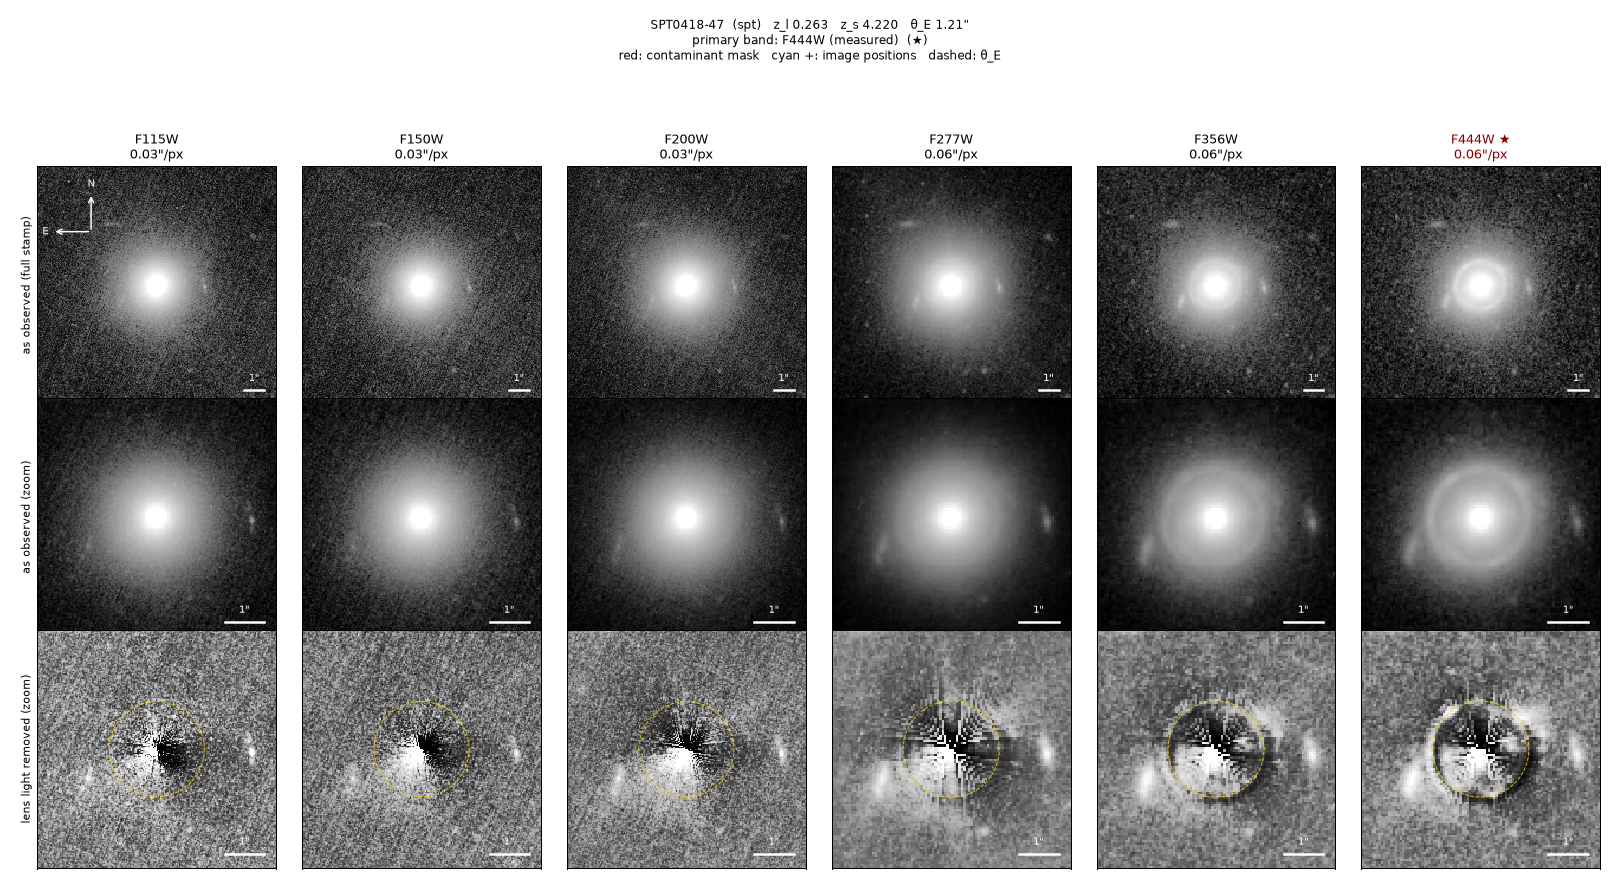
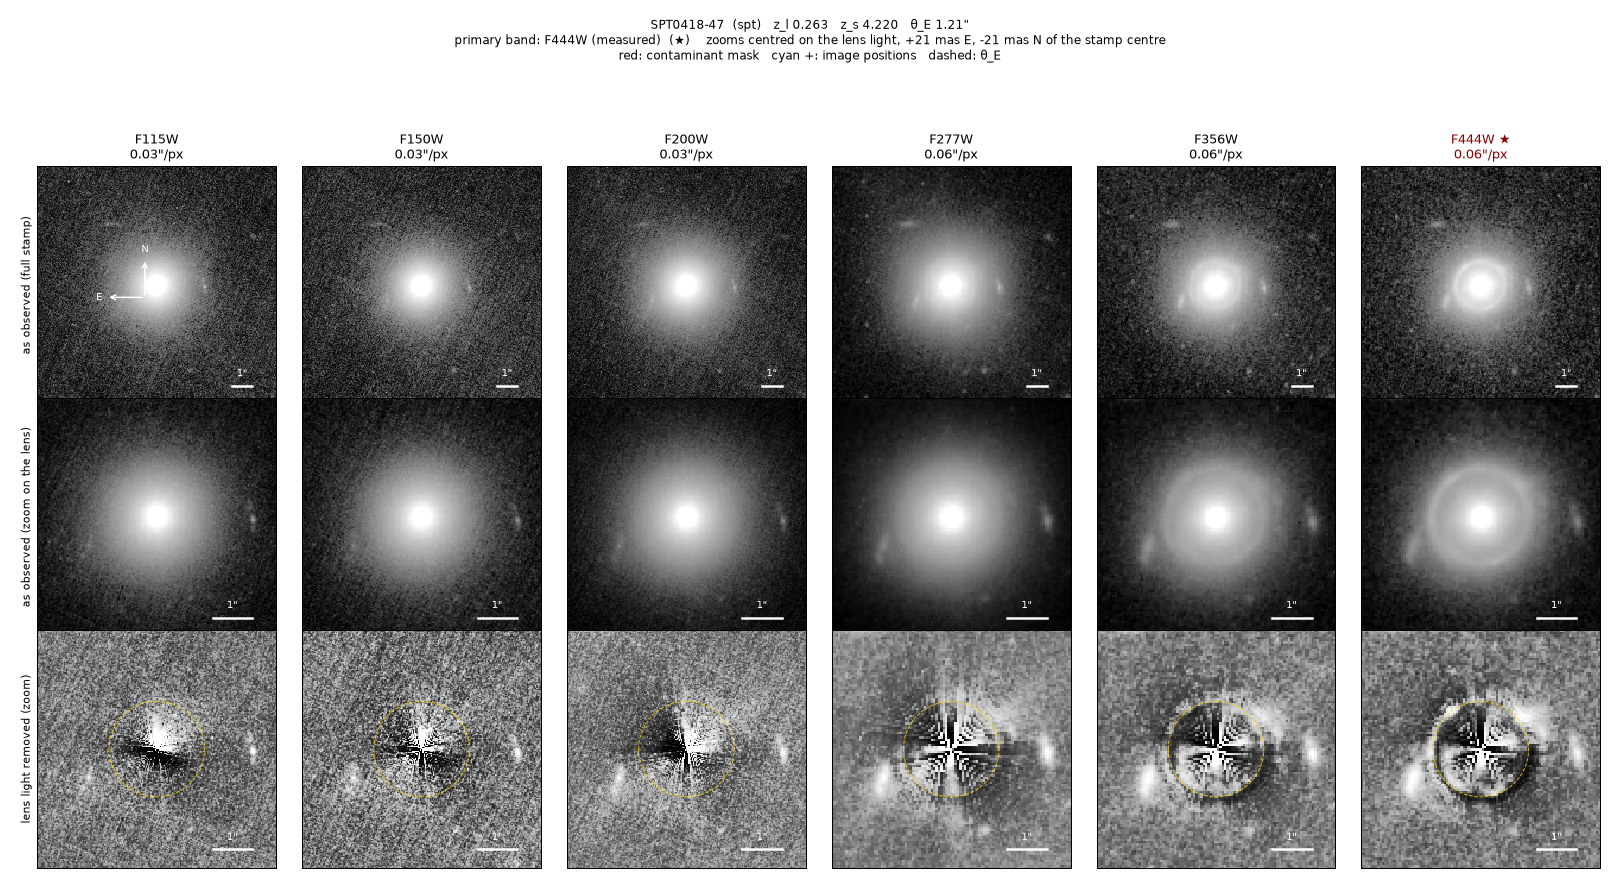
Band overview zooms centred on the lens light; COWLS lenses named by their COSJ IDs
The stamps are cut at the catalogue position, which misses the lens light by 20-50 mas
typically and up to 160 mas, and autogalaxy's radial_median_subtract profiles about the array
centre (a pixel corner), so the zooms sat off the lens and the lens-light removal left a
dipole. make_band_overview.py now measures one lens centre per lens (the median over bands of
the light centroid within 0.15"), centres the zooms and theta_E circle on it, and takes the
radial profile about it; the offset is printed in the header.

The docs and notes referred to COWLS lenses by their paper letters; they now use the COSJ IDs
the repo names them by (the letter stays in cowls_letter).

diff --git a/scripts/make_band_overview.py b/scripts/make_band_overview.py
@@ -3,16 +3,19 @@
 One figure per lens with every band's stamp side by side: data/stamps/<sample>/<lens>/stamp<S>_bands.png.
 
     uv run python scripts/make_band_overview.py                          # every lens of every sample
-    uv run python scripts/make_band_overview.py --sample cowls_spectacular [--lens L]
+    uv run python scripts/make_band_overview.py --sample cowls_spectacular [--lens LENS]
 
 The per-band QC (stamp<S>_dataset.png) shows one band's data, noise, PSF and mask; this shows all
 of a lens's bands at once, so the lens and its arcs can be compared across wavelength. Columns are
 the bands in wavelength order. Rows:
   1. the full stamp as observed, with the band's contaminant mask outlined (red) where drawn;
-  2. a zoom on the lens (+-max(2.5 theta_E, 1.5") about the centre), as observed;
-  3. the same zoom with the lens light removed (the azimuthal median about the centre,
-     masked pixels left out of it; autogalaxy's radial_median_subtract, as the mask GUI's left
-     panel), with the image positions (cyan +) where marked and the Einstein radius (dashed).
+  2. a zoom on the lens (+-max(2.5 theta_E, 1.5")), as observed;
+  3. the same zoom with the lens light removed (its azimuthal median, masked pixels left out),
+     with the image positions (cyan +) where marked and the Einstein radius (dashed).
+The zooms, the theta_E circle and the lens-light profile are centred on the lens's LIGHT, one
+centre per lens (the median over bands of the light centroid within 0.15"), not on the stamp
+centre: the stamps are cut at the catalogue position, up to ~0.15" (5 SW px) off it, and a
+profile even half a pixel off leaves a dipole. The offset is printed in the header.
 Every panel has its own arcsinh stretch (autogalaxy's arcsinh_stretch, as the GUIs). North is up
 and East left (the stamps' rows run South to North, columns East to West). The primary band
 (lens_samples.primary_band: reviewed, or choose_primary_band.py's suggestion) is starred, and
@@ -67,8 +70,44 @@ def load_band(stamp_dir, prefix):
     return dict(sci=sci, scale=scale, mask=mask, positions=[tuple(p) for p in positions])
 
 
+CENTROID_R = 0.15      # arcsec: the window of the lens's light centroid
+
+
+def light_centroid(sci, scale, r0=CENTROID_R):
+    """The flux-weighted centroid of the light within r0 of it (iterated from the stamp centre),
+    as (East, North) arcsec from the stamp centre, or None."""
+    n = sci.shape[0]
+    c = (n - 1) / 2.0
+    yy, xx = np.mgrid[:n, :n]
+    w = np.clip(np.nan_to_num(sci), 0, None)
+    cx = cy = c
+    for _ in range(8):
+        m = np.hypot(xx - cx, yy - cy) * scale < r0
+        if w[m].sum() <= 0:
+            return None
+        cx, cy = (w[m] * xx[m]).sum() / w[m].sum(), (w[m] * yy[m]).sum() / w[m].sum()
+    return -(cx - c) * scale, (cy - c) * scale
+
+
+def radial_subtract(img, cx, cy, exclude=None):
+    """`img` minus its azimuthal median profile about the sub-pixel centre (cx, cy) (pixels;
+    1-px annuli), `exclude` left out of the medians. autogalaxy's radial_median_subtract (the
+    mask GUI's) takes the profile about the ARRAY centre, a pixel corner here, and a lens even
+    half a pixel from it leaves a strong dipole."""
+    n_y, n_x = img.shape
+    yy, xx = np.mgrid[:n_y, :n_x]
+    rb = np.hypot(xx - cx, yy - cy).astype(int)
+    use = np.isfinite(img) if exclude is None else (np.isfinite(img) & ~exclude)
+    prof = np.zeros(rb.max() + 1)
+    for k in range(prof.size):
+        ring = img[(rb == k) & use]
+        if ring.size:
+            prof[k] = np.median(ring)
+    return img - prof[rb]
+
+
 def render(sample, lens, out=None):
-    from autogalaxy.gui.display_util import arcsinh_stretch, mask_boundary, radial_median_subtract
+    from autogalaxy.gui.display_util import arcsinh_stretch, mask_boundary
     prefix = stamp_paths.stamp_prefix(stamp_paths.modelling_size(lens, sample))
     lens_dir = os.path.join(stamp_paths.stamps_root(ws_path), sample, lens)
     bands = {}
@@ -83,6 +122,10 @@ def render(sample, lens, out=None):
     zl, zs = lens_samples.redshifts(lens, sample)
     primary, psource = lens_samples.primary_band(lens, sample)
     half_zoom = max(2.5 * (te or 0.6), 1.5)
+    # ONE lens centre for every band (the median of the bands' light centroids), so the zooms stay
+    # registered: the stamps are cut at the catalogue position, up to ~0.15" off the light
+    cents = [c for c in (light_centroid(bands[f]['sci'], bands[f]['scale']) for f in filts) if c]
+    e0, n0 = (float(np.median([c[0] for c in cents])), float(np.median([c[1] for c in cents]))) if cents else (0.0, 0.0)
 
     ncol = len(filts)
     fig, axes = plt.subplots(3, ncol, figsize=(max(3.0 * ncol, 8.0), 9.8), squeeze=False)
@@ -90,47 +133,57 @@ def render(sample, lens, out=None):
         b = bands[f]
         sci, s, mask = b['sci'], b['scale'], b['mask']
         n = sci.shape[0]
-        sub = radial_median_subtract(sci, exclude=mask)
-        zoom_px = min(int(round(half_zoom / s)), n // 2)
-        zs_ = slice(n // 2 - zoom_px, n // 2 + zoom_px)          # symmetric about the centre
+        c = (n - 1) / 2.0
+        # Rows run South -> North and columns East -> West. Every panel is in arcsec from the
+        # stamp centre, East (left) and North positive: pixel (col j, row i) is at
+        # East -(j - c) s, North (i - c) s.
+        lx, ly = c - e0 / s, c + n0 / s                      # the lens centre in pixels
+        sub = radial_subtract(sci, lx, ly, exclude=mask)
+        zp = int(np.ceil(half_zoom / s)) + 1
+        j0, i0 = max(0, int(round(lx)) - zp), max(0, int(round(ly)) - zp)
+        j1, i1 = min(n, int(round(lx)) + zp + 1), min(n, int(round(ly)) + zp + 1)
         for i, (img, zoom) in enumerate(((sci, False), (sci, True), (sub, True))):
             ax = axes[i, j]
-            a = img[zs_, zs_] if zoom else img
-            m = None if mask is None else (mask[zs_, zs_] if zoom else mask)
-            # Rows run South -> North and columns East -> West, so origin='lower' is North up,
-            # East left. The axes are arcsec from the centre, positive East (left) and North.
-            e = (a.shape[0] / 2.0) * s
-            ax.imshow(arcsinh_stretch(a), origin='lower', cmap='gray', extent=[e, -e, -e, e],
-                      interpolation='nearest')
-            if m is not None and m.any():
-                edge = mask_boundary(m)
+            rs, cs = (slice(i0, i1), slice(j0, j1)) if zoom else (slice(0, n), slice(0, n))
+            a = img[rs, cs]
+            ext = [-(cs.start - 0.5 - c) * s, -(cs.stop - 0.5 - c) * s, (rs.start - 0.5 - c) * s, (rs.stop - 0.5 - c) * s]
+            ax.imshow(arcsinh_stretch(a), origin='lower', cmap='gray', extent=ext, interpolation='nearest')
+            if mask is not None and mask[rs, cs].any():
+                edge = mask_boundary(mask[rs, cs])
                 rgba = np.zeros(edge.shape + (4,))
                 rgba[edge] = (1.0, 0.15, 0.15, 0.9)
-                ax.imshow(rgba, origin='lower', extent=[e, -e, -e, e], interpolation='nearest')
+                ax.imshow(rgba, origin='lower', extent=ext, interpolation='nearest')
+            if zoom:
+                xl, yl = (e0 + half_zoom, e0 - half_zoom), (n0 - half_zoom, n0 + half_zoom)
+            else:
+                h = (n / 2.0) * s
+                xl, yl = (h, -h), (-h, h)
             if i == 2:
                 if te:
                     t = np.linspace(0, 2 * np.pi, 200)
-                    ax.plot(te * np.cos(t), te * np.sin(t), ls='--', lw=0.8, color='gold', alpha=0.8)
+                    ax.plot(e0 + te * np.cos(t), n0 + te * np.sin(t), ls='--', lw=0.8, color='gold', alpha=0.8)
                 for y, x in b['positions']:
-                    # autoarray (y, x): y points toward row 0 (South here), x toward higher
-                    # columns (West), so in these North/East axes the position is (-x, -y)
+                    # autoarray (y, x) about the stamp centre: y points toward row 0 (South
+                    # here), x toward higher columns (West), so (East, North) = (-x, -y)
                     ax.plot(-x, -y, '+', color='cyan', ms=9, mew=1.4)
-            ax.set_xlim(e, -e)
-            ax.set_ylim(-e, e)
+            ax.set_xlim(*xl)
+            ax.set_ylim(*yl)
             ax.set_xticks([]); ax.set_yticks([])
             if i == 0:
                 star = ' ★' if f == primary else ''
                 ax.set_title(f'{f}{star}\n{s:.2f}"/px', fontsize=10,
                              color='darkred' if f == primary else 'black')
             if j == 0:
-                ax.set_ylabel(['as observed (full stamp)', 'as observed (zoom)', 'lens light removed (zoom)'][i],
-                              fontsize=9)
+                ax.set_ylabel(['as observed (full stamp)', 'as observed (zoom on the lens)',
+                               'lens light removed (zoom)'][i], fontsize=9)
             # 1" scale bar, bottom right
-            bar = 1.0
-            ax.plot([-e * 0.9, -e * 0.9 + bar], [-e * 0.88, -e * 0.88], color='white', lw=2)
-            ax.text(-e * 0.9 + bar / 2, -e * 0.8, '1"', color='white', ha='center', fontsize=8)
+            (xa, xb), (ya, yb) = xl, yl
+            wx, wy = xa - xb, yb - ya
+            bx, by = xb + 0.1 * wx + 1.0, ya + 0.08 * wy
+            ax.plot([bx, bx - 1.0], [by, by], color='white', lw=2)
+            ax.text(bx - 0.5, by + 0.04 * wy, '1"', color='white', ha='center', fontsize=8)
             if i == 0 and j == 0:                         # compass, top left: N up, E left
-                ox, oy, L = e * 0.55, e * 0.45, e * 0.32
+                ox, oy, L = xa - 0.45 * wx, yb - 0.55 * wy, 0.16 * wx
                 ax.annotate('', xy=(ox, oy + L), xytext=(ox, oy),
                             arrowprops=dict(arrowstyle='->', color='white', lw=1.2))
                 ax.annotate('', xy=(ox + L, oy), xytext=(ox, oy),
@@ -142,7 +195,8 @@ def render(sample, lens, out=None):
     te_s = f'{te:.2f}"' if te else '?'
     prim = f'{primary} ({psource})' if primary else 'not set (no band measurable)'
     fig.suptitle(f'{lens}  ({sample})   z_l {zl_s}   z_s {zs_s}   θ_E {te_s}\n'
-                 f'primary band: {prim}  (★)\n'
+                 f'primary band: {prim}  (★)    zooms centred on the lens light, '
+                 f'{1e3 * e0:+.0f} mas E, {1e3 * n0:+.0f} mas N of the stamp centre\n'
                  f'red: contaminant mask   cyan +: image positions   dashed: θ_E', fontsize=9.5)
     fig.tight_layout(rect=(0, 0, 1, 0.92))
     out = out or os.path.join(lens_dir, f'{prefix}_bands.png')

diff --git a/scripts/choose_primary_band.py b/scripts/choose_primary_band.py
@@ -5,12 +5,12 @@ mask and arc-mask GUIs draw it first (every other band starts from its mask), po
 clicked on it, and it is the band to model first.
 
     uv run python scripts/choose_primary_band.py                    # every sample
-    uv run python scripts/choose_primary_band.py --sample cowls_spectacular [--lens L]
+    uv run python scripts/choose_primary_band.py --sample cowls_spectacular [--lens LENS]
 
 A fixed order cannot do this. It used to be F444W > F356W > F277W > ... > F115W, but the best
 band depends on the lens and source spectra: the lens light is old stars peaking near rest
 1.6 um, and the arc is whatever the source is. Most sources have no redshift (14 of the 17
-COWLS ones, and COWLS P has no lens redshift either), so the colour is measured, not inferred.
+COWLS ones, and COSJ100119+014849 has no lens redshift either), so the colour is measured, not inferred.
 It also depends on how well the band's PSF resolves the Einstein ring.
 
 Per band, on the modelling stamp:
@@ -23,7 +23,8 @@ Per band, on the modelling stamp:
     goes as FWHM / S/N while the ring is under-resolved; once theta_E spans R0 PSF widths,
     more resolution no longer helps, and S/N alone decides.
 The suggestion is the best score. None if no band reaches MIN_ARC_SNR: the arcs are then too
-faint against the error of the lens-light profile, as on COWLS A, I and N (2026-11-01). It is
+faint against the error of the lens-light profile, as on COSJ095914+021219, COSJ100013+023424
+and COSJ100028+021928 (2026-11-01). It is
 also biased toward the red bands for bright, compact lenses (theta_E < ~0.6"), where lens light
 leaks into the annulus.
 

diff --git a/AGENTS.md b/AGENTS.md
@@ -33,10 +33,10 @@ Stamps renamed 2026-10-26 (`data/cutouts/` → `data/stamps/`, `cutout_*` → `s
 **COWLS added 2026-10-29** (`cowls_spectacular`, the 17 COWLS II lenses, GO 1727
 COSMOS-Web): the first survey-program sample, located by position and cut by detector
 footprint (*Download*), reduced on 90" mosaics with pruned intermediates for disk
-(*Reduction*). Verified on COSJ100013+023424 (lens I) F444W: 7 detector files from two tiles,
+(*Reduction*). Verified on COSJ100013+023424 F444W: 7 detector files from two tiles,
 tweakreg 145–162 sources per frame (but that first reduction aligned nothing; fixed and re-run 2026-10-30, see *Reduction*), 1030.7 s at the lens (4 × 257.7 s), the lens and arc at the
 mosaic centre. The full batch then ran 12:31–23:40: 68 bands ok, every
-exposure time at the lens equal to the footprint survey (J SW 773 s, K LW 515 s, N SW 258 s),
+exposure time at the lens equal to the footprint survey (COSJ100018+022138 SW 773 s, COSJ100024+015334 LW 515 s, COSJ100028+021928 SW 258 s),
 no rate/rateints/crf left; kept on disk 38 GB uncal + 88 GB cal + 10 GB mosaics. Two downloads
 died in a network outage at the MAST query, which had no retry; `with_retries` now wraps every
 query, and a second `run_reduce_all.sh` pass picked them up. **Disk on macOS:** Time Machine's
@@ -260,8 +260,9 @@ are the COWLS IDs, `cowls_letter` the paper's A–Q. `ra`/`dec` are the COSMOS-W
 positions OF THE LENS GALAXY (Shuntov+24), so unlike an APT coordinate they need no
 `deflector_ra`. `theta_e` is COWLS I's PyAutoLens value, for orientation. Redshifts carry
 their source in `redshift_*_kind` (DESI spec, COSMOS-Web photo-z, van der Wel+13); P has no
-lens redshift and only J, K, L have source redshifts, so the rest export `null`. Depth at the
-lens is set by where it falls in the COSMOS-Web dither pattern, not by the tile: lens N's SW
+lens redshift and only COSJ100018+022138, COSJ100024+015334 and COSJ100024+021749 have source
+redshifts, so the rest export `null`. Depth at the
+lens is set by where it falls in the COSMOS-Web dither pattern, not by the tile: COSJ100028+021928's SW
 stamp rests on ONE exposure, so Image3's outlier detection has nothing to compare and its
 cosmic rays are caught by `jump` alone — look at it before trusting faint SW structure.
 Every lens has all four filters. Only GO 1727 is downloaded: other JWST programs that image
@@ -371,10 +372,10 @@ tweakreg (`measure_corr_factor.py`'s ±30" region fits).
 
 **COWLS tweakreg: LW lens-first, SW from LW (2026-10-30; all 68 bands re-run from the kept cal
 files).** The first reduction aligned nothing. With jwst's default `expand_refcat=False`, tweakwcs
-takes the first group in FILE ORDER as the sole reference: on lens I F444W a neighbouring tile's
+takes the first group in FILE ORDER as the sole reference: on COSJ100013+023424 F444W a neighbouring tile's
 frame (obs 007), against which every lens-covering group found 0–1 matches (`minobj=15`), so no
 frame moved, while `cal_step.tweakreg` still said COMPLETE. `expand_refcat=True` alone was not
-enough: it starts from the best-overlapping pair anywhere in the 90" field, which on lens A F444W
+enough: it starts from the best-overlapping pair anywhere in the 90" field, which on COSJ095914+021219 F444W
 was a neighbouring visit that the lens frames matched with only 4 sources. Two sample settings fix it
 (`info/samples/lens_samples.json`, read by `lens_samples.py`):
 
@@ -382,7 +383,7 @@ was a neighbouring visit that the lens frames matched with only 4 sources. Two s
   (`reduce_nircam.lens_first_order`), and tweakreg runs with `expand_refcat=True,
   enforce_user_order=True`. The lens frames therefore align to each other first, and the
   neighbours join the growing reference. On LW (34 bands): 198 groups aligned, 48 failed, and
-  every lens-covering group aligned except lens J's obs 053 exposure 1 (3 matches in both LW bands,
+  every lens-covering group aligned except COSJ100018+022138's obs 053 exposure 1 (3 matches in both LW bands,
   so it stays a-priori). Fit RMSE 0.03–0.20" (5–95%). Offsets 8 mas median, 27 at the 90th
   percentile, 50 max. The lens frames of one band moved 2–42 mas relative to each other (median 19).
 - `tweakreg_sw_from_lw`: SW is not fitted. Each SW frame takes the offset tweakreg gave its own
@@ -392,7 +393,7 @@ was a neighbouring visit that the lens frames matched with only 4 sources. Two s
   - an exposure with no LW offset stays a-priori (0–1 frames per band);
   - why: fitted on their own, the SHALLOW4 SW frames gave RMSE 0.2–0.4" on 10–50 matches, and their
     shifts disagreed with the same exposures' LW shifts by a median 22 mas (max 113) over 204
-    exposures. On lens K one visit's four F150W dithers came out up to 125 mas apart.
+    exposures. On COSJ100024+015334 one visit's four F150W dithers came out up to 125 mas apart.
 
 Each band's `lens_products.json` record carries `tweak_offsets_mas` ({rootname: [dRA cos dec,
 dDec]}: LW measured from the crf files before pruning, equal to tweakreg's own XSH/YSH to 0.01 mas;
@@ -513,7 +514,7 @@ with `--corr-factor 1.0`, measure, add `sample_factors`, re-cut. **COWLS, measur
 on all 68 stamps (`measure_corr_factor.py --out ..._cowls_spectacular.json`), per FILTER:
 F115W 1.25, F150W 1.22, F277W 1.03, F444W 0.95 at 0.2"** (16–84% ranges ±0.02). Per filter
 because F277W > F444W in all 17 lenses and F115W > F150W in 16 of 17, a split larger than the
-scatter; no dependence on depth (lens N's one SW exposure measures like the 4-exposure lenses).
+scatter; no dependence on depth (COSJ100028+021928's one SW exposure measures like the 4-exposure lenses).
 Curves in `sample_factors.cowls_spectacular.block_ratio_curve`. Re-measured after the 2026-10-30
 Image3 re-run (*Reduction*): F115W 1.25, F150W 1.21, F277W 1.03, F444W 0.95. That is unchanged
 within the scatter, so the factors were kept. The channel medians come from
@@ -611,7 +612,7 @@ fields are each star-poor but share one PSF. COWLS: a 90" field holds 0–11 PSF
 bands had < 3; the sample shares filter, readout, output grid, and two telescope rolls (PA_V3
 107° and 293°, 186° apart, under which the diffraction pattern nearly maps onto itself).
 `pooled_field` prepares each lens's mosaic exactly as a single build (`prepare_field`), drops
-a star already taken from a neighbouring mosaic (0.3"; K and M share a third of a field, but
+a star already taken from a neighbouring mosaic (0.3"; COSJ100024+015334 and COSJ100025+015245 share a third of a field, but
 their closest stars are 15" apart, so none dropped), and tiles the background-subtracted star
 cutouts onto one synthetic image at their sub-pixel offsets, so `build_epsf`, validation and
 the bootstrap run unchanged. The kernel goes into every lens's stamp dir (`PSFMETH =
@@ -651,18 +652,23 @@ always answers `stamp<S>` for the lens's modelling size). The semantics are unch
 
   **Why not redshift.** The lens light peaks near rest 1.6 µm, but the arc's colour is the
   source's: 14 of 17 COWLS sources have no redshift, and P has no lens redshift. Measured, the
-  bands do not follow z_l: H, Q and L all sit at z_l ≈ 0.37, yet L is best in F150W and H and Q
+  bands do not follow z_l: COSJ100012+022015, COSJ100121+022740 and COSJ100024+021749 all sit at
+  z_l ≈ 0.37, yet COSJ100024+021749 is best in F150W and the other two
   in F277W.
 
   **The 2026-11-01 suggestions:**
-  - F444W: SPT0418-47, F, K, M, O, P;
+  - F444W: SPT0418-47, COSJ095953+023319, COSJ100024+015334, COSJ100025+015245,
+    COSJ100047+015023, COSJ100119+014849;
   - F356W: SPT2147-50;
-  - F277W: B1938+666, B, C, D, E, G, H, J, Q;
-  - F150W: L;
-  - none: A, I, N. No band reaches arc S/N 15 there; their arcs are too faint against the
+  - F277W: B1938+666, COSJ095917+015424, COSJ095920+015851, COSJ095921+020638,
+    COSJ095950+022057, COSJ095955+021900, COSJ100012+022015, COSJ100018+022138,
+    COSJ100121+022740;
+  - F150W: COSJ100024+021749;
+  - none: COSJ095914+021219, COSJ100013+023424, COSJ100028+021928. No band reaches arc S/N 15 there; their arcs are too faint against the
     lens-profile error, so set `primary_band` by eye.
 
-  The measurement is biased red for bright, compact lenses (θ_E ≲ 0.6": B, C, B1938+666), where
+  The measurement is biased red for bright, compact lenses (θ_E ≲ 0.6": COSJ095917+015424, COSJ095920+015851,
+  B1938+666), where
   lens light leaks into the annulus; check those in the GUI.
 
   **Where it ships.** Every band's scores and the resolved choice are in
@@ -676,6 +682,15 @@ always answers `stamp<S>` for the lens's modelling size). The semantics are unch
   stamp, a zoom on the lens, and the zoom with the lens light removed (the radial median, as the
   mask GUI's left panel). Each panel has its own arcsinh stretch, North up, East left. Overlaid:
   the contaminant mask outline, the image positions and θ_E; the primary band is starred.
+  - The zooms, the θ_E circle and the lens-light profile are centred on the lens's LIGHT, not
+    the stamp centre: one centre per lens, the median over bands of the light centroid within
+    0.15", printed in the header.
+  - The stamps are cut at the catalogue position, which misses the light by 20–50 mas typically
+    and up to 160 mas (COSJ095917+015424, COSJ095920+015851, COSJ095953+023319,
+    COSJ100013+023424; SPT2147-50 ~130 mas).
+  - autogalaxy's `radial_median_subtract` (the mask GUI's) profiles about the array centre, a pixel
+    corner here, so even a half-pixel offset leaves a dipole. `radial_subtract` takes the
+    sub-pixel centre instead.
   - It is not called a "mosaic", which means the Image3 product here.
   - `make_masks.py`, `make_positions.py` (marking and `--rebroadcast`) and `choose_primary_band.py`
     re-render it after writing (best-effort, never fatal). A stamp re-cut does not, so re-run the
